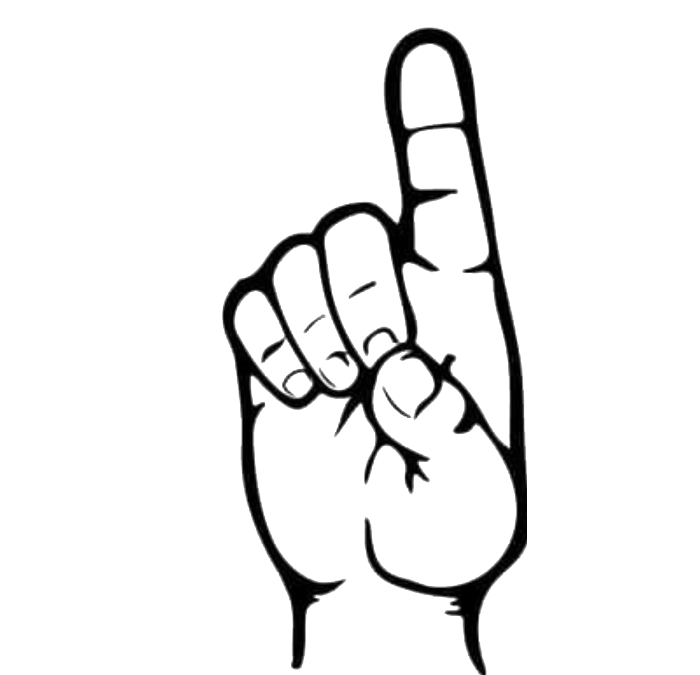
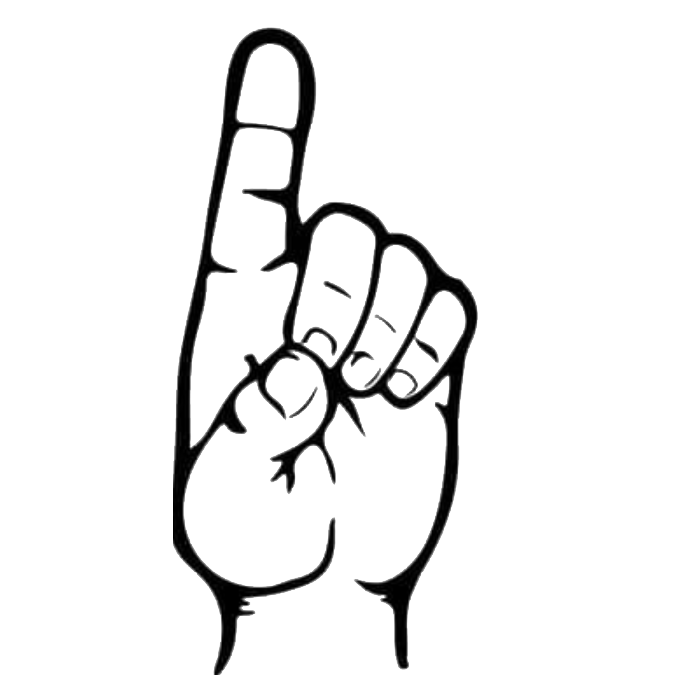
Add mDNS resolution for glove.local WiFi, Lock Spatial toggle, U ASL image, and updated ASL photos
Made-with: Cursor

Changed region(s): [[0.24, 0.0311, 0.75, 1.0]]

diff --git a/src/App.tsx b/src/App.tsx
@@ -84,6 +84,10 @@ function App() {
   // Reference quaternion captured from the first IMU sample each Unity session.
   // Mirrors HandVisualization3D's refQuat so both show the same relative orientation.
   const unityRefQuatRef = useRef<Quat | null>(null);
+  // Lock spatial movement: when true, motion/gyro payload is omitted so the twin
+  // only shows finger flex + wrist orientation without translating in space.
+  const [lockSpatial, setLockSpatial] = useState(false);
+  const lockSpatialRef = useRef(false);
 
   // WebGL twin (embedded iframe)
   const [webglEnabled,       setWebglEnabled]       = useState(false);
@@ -584,7 +588,7 @@ function App() {
       }
 
       if (webglEnabledRef.current && webglIframeRef.current?.contentWindow) {
-        const motion = currentMotionRef.current;
+        const motion = lockSpatialRef.current ? null : currentMotionRef.current;
         webglIframeRef.current.contentWindow.postMessage(
           {
             type: 'sensorData',
@@ -1142,6 +1146,33 @@ function App() {
                     }}
                   >
                     {t('twin.recalibrate')}
+                  </button>
+                  <button
+                    onClick={() => {
+                      const next = !lockSpatialRef.current;
+                      lockSpatialRef.current = next;
+                      setLockSpatial(next);
+                    }}
+                    title={lockSpatial
+                      ? 'Spatial movement is locked — click to allow hand translation again'
+                      : 'Lock spatial position: twin shows only finger flex and wrist rotation'}
+                    style={{
+                      padding: '0.2rem 0.6rem',
+                      borderRadius: '5px',
+                      border: lockSpatial
+                        ? '1px solid rgba(251,191,36,0.5)'
+                        : '1px solid rgba(100,116,139,0.35)',
+                      background: lockSpatial
+                        ? 'rgba(251,191,36,0.12)'
+                        : 'rgba(100,116,139,0.08)',
+                      color: lockSpatial ? '#d97706' : 'var(--text-secondary)',
+                      fontSize: '0.75rem',
+                      fontWeight: 600,
+                      cursor: 'pointer',
+                      lineHeight: 1.4,
+                    }}
+                  >
+                    {lockSpatial ? '📍 Position Locked' : '🔓 Lock Position'}
                   </button>
                 </div>
               </div>

diff --git a/src/components/PredictionView.tsx b/src/components/PredictionView.tsx
@@ -22,6 +22,7 @@ import Q_img from '../assets/asl/Q.png';
 import R_img from '../assets/asl/R.png';
 import S_img from '../assets/asl/S.png';
 import T_img from '../assets/asl/T.png';
+import U_img from '../assets/asl/U.png';
 import V_img from '../assets/asl/V.png';
 import W_img from '../assets/asl/W.png';
 import X_img from '../assets/asl/X.png';
@@ -45,6 +46,7 @@ const ASL_SIGNS: { [key: string]: string } = {
   R: R_img,
   S: S_img,
   T: T_img,
+  U: U_img,
   V: V_img,
   W: W_img,
   X: X_img,

diff --git a/src-tauri/src/main.rs b/src-tauri/src/main.rs
@@ -1151,10 +1151,113 @@ fn stop_webgl_server(state: tauri::State<WebGLServerShared>) -> Result<(), Strin
     }
 }
 
+// ── mDNS hostname resolver ────────────────────────────────────────────────────
+// Windows does not resolve .local hostnames via its standard DNS stack unless
+// Apple Bonjour (or a similar mDNS daemon) is installed.  This function sends
+// a DNS A-record query directly to the mDNS multicast group (224.0.0.251:5353)
+// using only std::net — no extra crates required.
+
+/// Build a minimal DNS query packet for an A record (QU bit set → unicast reply).
+fn build_mdns_query(hostname: &str) -> Vec<u8> {
+    let mut pkt: Vec<u8> = Vec::new();
+    // Header
+    pkt.extend_from_slice(&[0x00, 0x00]); // ID = 0 (mDNS convention)
+    pkt.extend_from_slice(&[0x00, 0x00]); // Flags: standard query
+    pkt.extend_from_slice(&[0x00, 0x01]); // QDCOUNT = 1
+    pkt.extend_from_slice(&[0x00, 0x00]); // ANCOUNT = 0
+    pkt.extend_from_slice(&[0x00, 0x00]); // NSCOUNT = 0
+    pkt.extend_from_slice(&[0x00, 0x00]); // ARCOUNT = 0
+    // QNAME: encode each label preceded by its length
+    for label in hostname.trim_end_matches('.').split('.') {
+        pkt.push(label.len() as u8);
+        pkt.extend_from_slice(label.as_bytes());
+    }
+    pkt.push(0x00); // root label terminator
+    pkt.extend_from_slice(&[0x00, 0x01]); // QTYPE  = A (1)
+    pkt.extend_from_slice(&[0x80, 0x01]); // QCLASS = IN (1) | QU bit (0x8000)
+    pkt
+}
+
+/// Advance `pos` past a DNS name (handles compression pointers).
+/// Returns the new position after the name, or None on malformed input.
+fn skip_dns_name(pkt: &[u8], mut pos: usize) -> Option<usize> {
+    loop {
+        if pos >= pkt.len() { return None; }
+        let b = pkt[pos] as usize;
+        if b == 0 { return Some(pos + 1); }      // root label
+        if b & 0xC0 == 0xC0 { return Some(pos + 2); } // compression pointer
+        pos += b + 1;
+    }
+}
+
+/// Parse the first A record from an mDNS / DNS response packet.
+fn parse_mdns_a_response(pkt: &[u8]) -> Option<std::net::Ipv4Addr> {
+    if pkt.len() < 12 { return None; }
+    let qdcount = u16::from_be_bytes([pkt[4], pkt[5]]) as usize;
+    let ancount = u16::from_be_bytes([pkt[6], pkt[7]]) as usize;
+    if ancount == 0 { return None; }
+
+    // Skip question section
+    let mut pos = 12usize;
+    for _ in 0..qdcount {
+        pos = skip_dns_name(pkt, pos)?;
+        pos = pos.checked_add(4)?; // QTYPE(2) + QCLASS(2)
+    }
+
+    // Walk answer records looking for the first A record
+    for _ in 0..ancount {
+        pos = skip_dns_name(pkt, pos)?;
+        if pos + 10 > pkt.len() { return None; }
+        let rtype  = u16::from_be_bytes([pkt[pos],   pkt[pos+1]]);
+        let rdlen  = u16::from_be_bytes([pkt[pos+8], pkt[pos+9]]) as usize;
+        pos += 10; // TYPE(2)+CLASS(2)+TTL(4)+RDLEN(2)
+        if rtype == 1 && rdlen == 4 && pos + 4 <= pkt.len() {
+            return Some(std::net::Ipv4Addr::new(
+                pkt[pos], pkt[pos+1], pkt[pos+2], pkt[pos+3],
+            ));
+        }
+        pos = pos.checked_add(rdlen)?;
+    }
+    None
+}
+
+/// Resolve a `.local` mDNS hostname to an IPv4 address.
+/// Sends a QU (unicast-response) query to 224.0.0.251:5353 and waits up to
+/// `timeout_ms` milliseconds for a response.  Returns None on failure.
+fn resolve_mdns(hostname: &str, timeout_ms: u64) -> Option<std::net::IpAddr> {
+    use std::net::UdpSocket;
+
+    let pkt = build_mdns_query(hostname);
+    let socket = UdpSocket::bind("0.0.0.0:0").ok()?;
+    socket.set_read_timeout(Some(Duration::from_millis(timeout_ms))).ok()?;
+    socket.set_multicast_ttl_v4(1).ok(); // link-local only
+
+    // Join the mDNS multicast group so we can receive multicast responses
+    // (ESP32 may reply with multicast even when QU bit is set).
+    let mdns_group = "224.0.0.251".parse::<std::net::Ipv4Addr>().unwrap();
+    socket.join_multicast_v4(&mdns_group, &std::net::Ipv4Addr::UNSPECIFIED).ok();
+
+    socket.send_to(&pkt, "224.0.0.251:5353").ok()?;
+
+    let mut buf = [0u8; 1500];
+    let deadline = std::time::Instant::now() + Duration::from_millis(timeout_ms);
+
+    while std::time::Instant::now() < deadline {
+        match socket.recv_from(&mut buf) {
+            Ok((len, _src)) => {
+                if let Some(ip) = parse_mdns_a_response(&buf[..len]) {
+                    return Some(std::net::IpAddr::V4(ip));
+                }
+            }
+            Err(_) => break, // timeout
+        }
+    }
+    None
+}
+
 // ── WiFi TCP client ───────────────────────────────────────────────────────────
 // Connects to the ESP32's TCP server and reads the same CSV lines as USB serial,
 // emitting identical "serial-data" / "serial-imu" events.
-// Supports both IP addresses (192.168.x.x) and mDNS hostnames (glove.local).
 
 type WifiStopFlag  = Arc<AtomicBool>;
 type WifiStateShared = Arc<Mutex<Option<WifiStopFlag>>>;
@@ -1175,9 +1278,30 @@ fn connect_wifi(
     }
     thread::sleep(Duration::from_millis(150));
 
-    let addr = format!("{}:{}", host, port);
+    // For .local hostnames, bypass the Windows DNS stack (which doesn't support
+    // mDNS) and resolve via multicast DNS directly.
+    let resolved_host = if host.to_lowercase().ends_with(".local") {
+        match resolve_mdns(&host, 3000) {
+            Some(ip) => {
+                println!("[WiFi] mDNS resolved {} → {}", host, ip);
+                ip.to_string()
+            }
+            None => {
+                return Err(format!(
+                    "Cannot resolve \"{}\" via mDNS.\n\
+                     Make sure your PC and the glove are on the same WiFi network.\n\
+                     Tip: enter the glove's IP address directly instead (e.g. 192.168.4.1).",
+                    host
+                ));
+            }
+        }
+    } else {
+        host.clone()
+    };
 
-    // Resolve hostname (handles both IPs and mDNS names like glove.local)
+    let addr = format!("{}:{}", resolved_host, port);
+
+    // Standard TCP connect (works for both raw IPs and already-resolved addresses)
     use std::net::ToSocketAddrs;
     let socket_addr = addr
         .to_socket_addrs()
